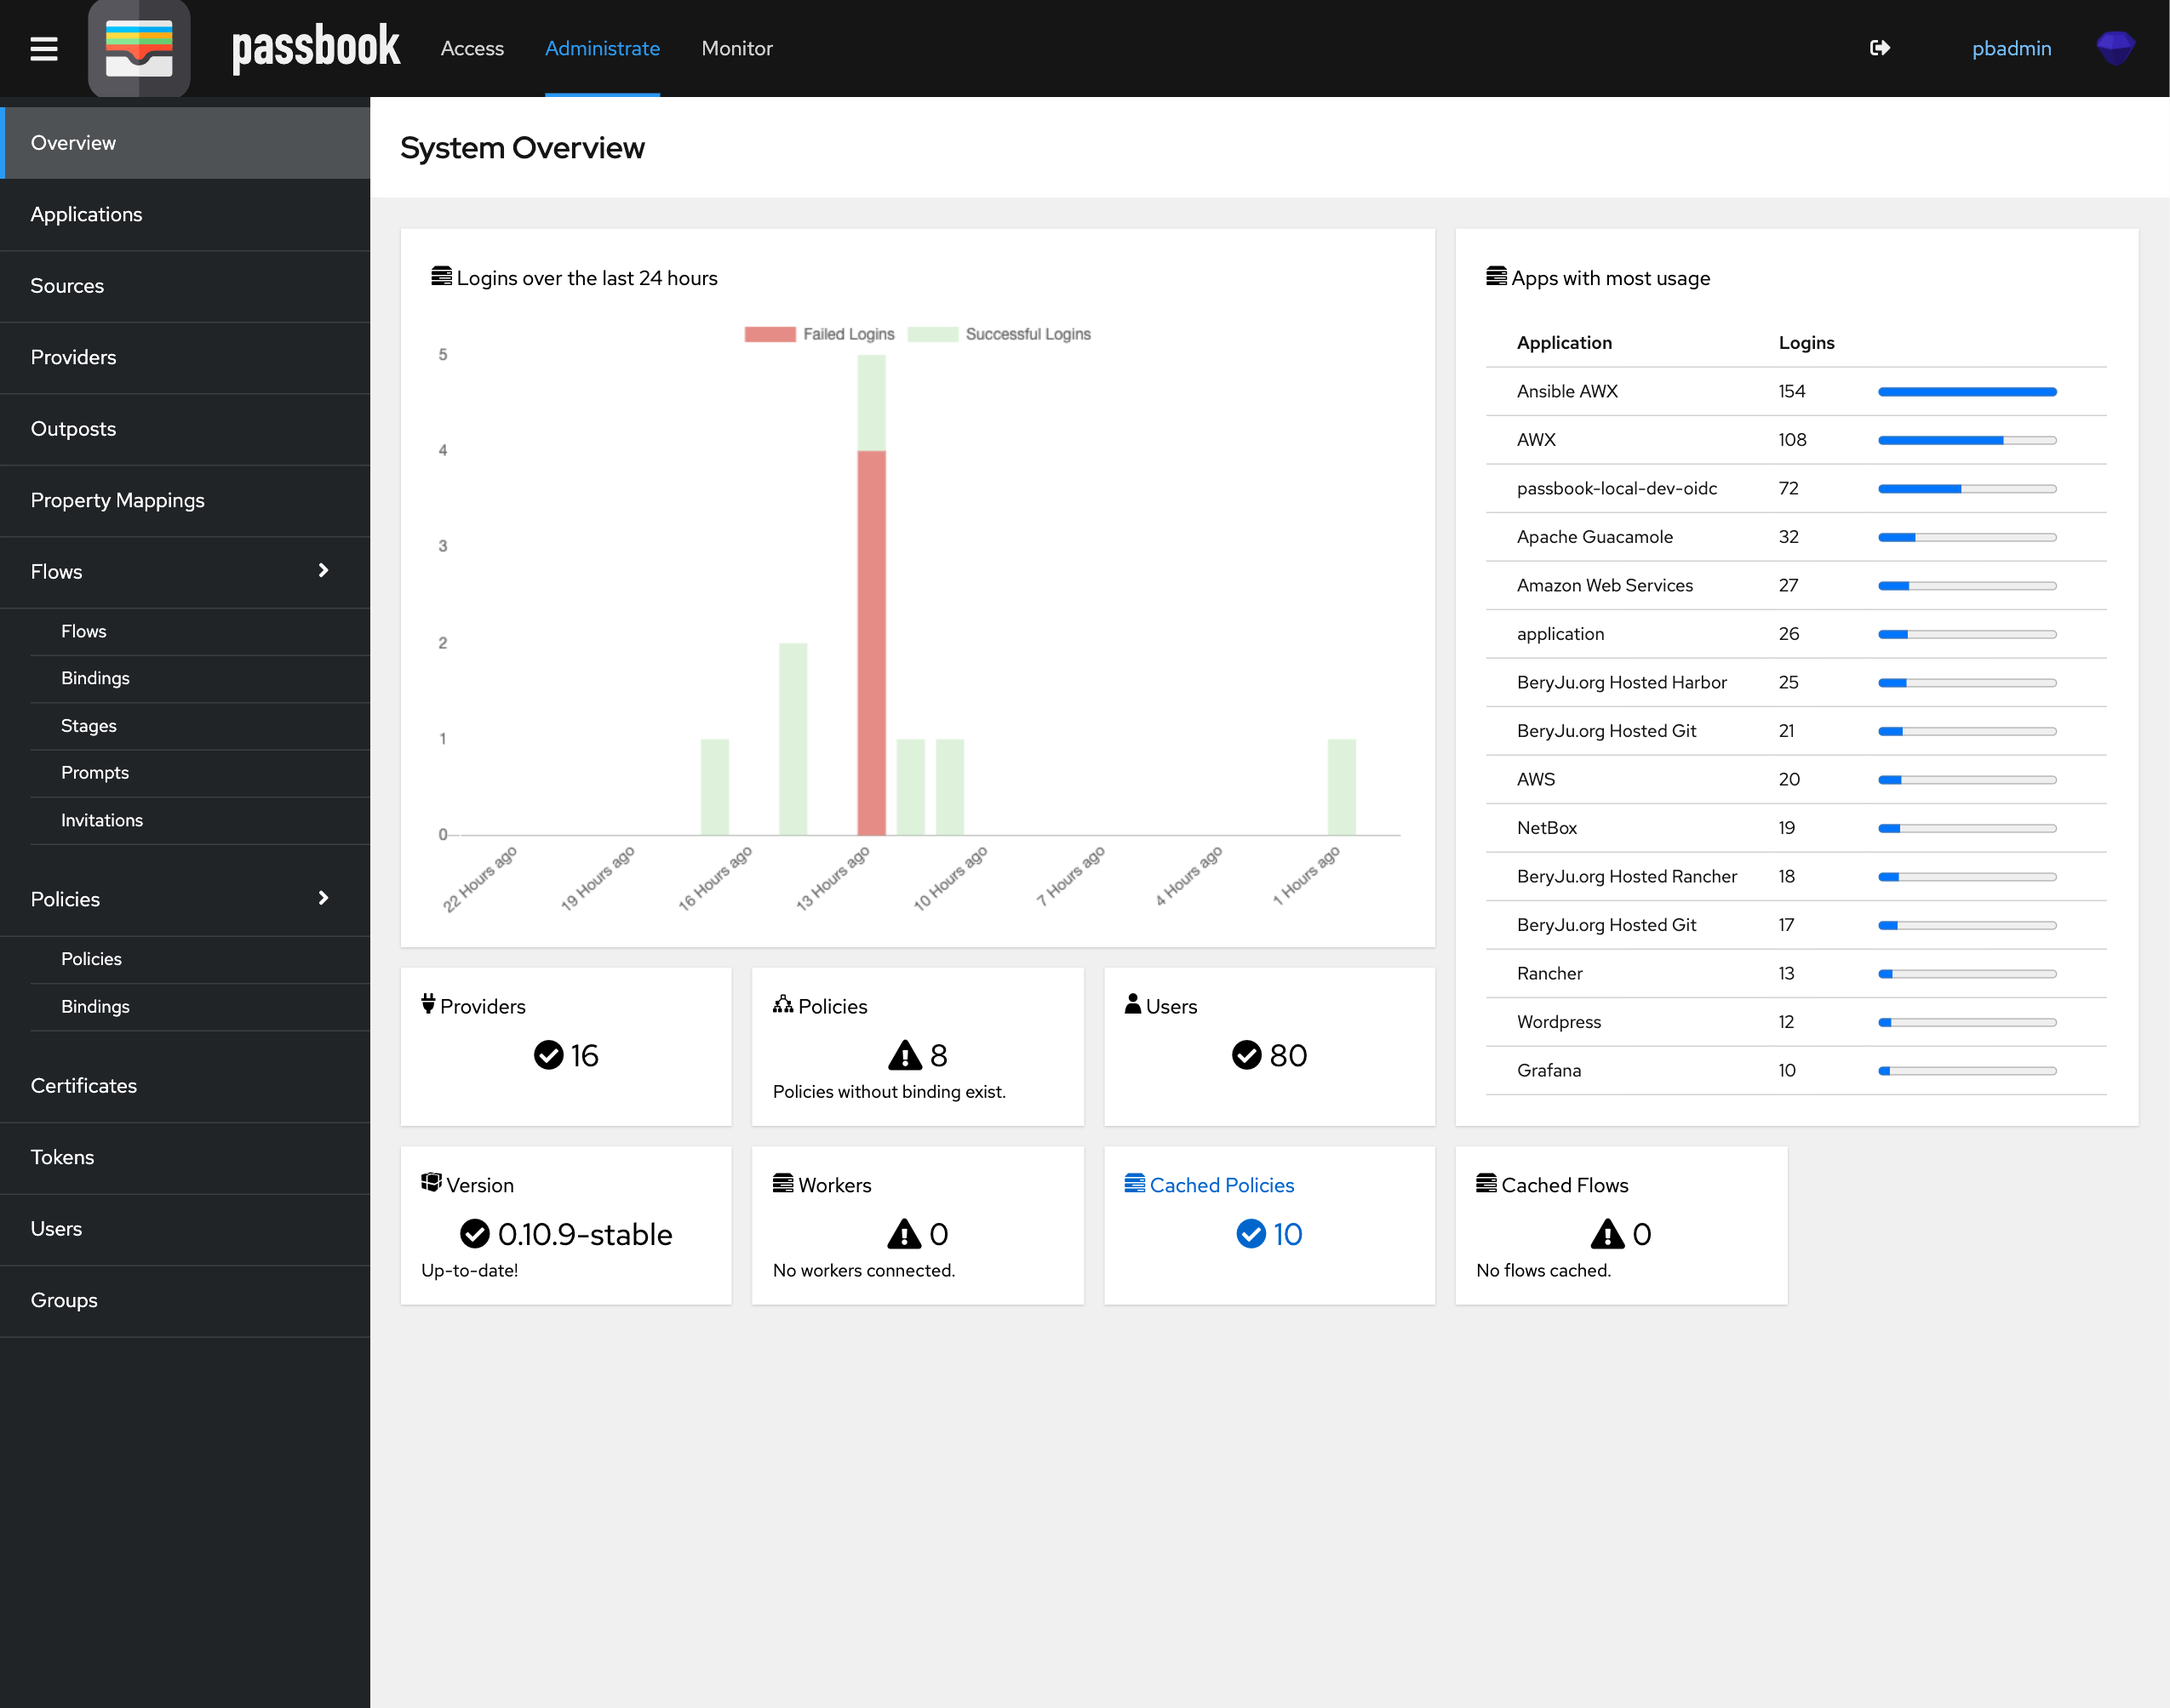
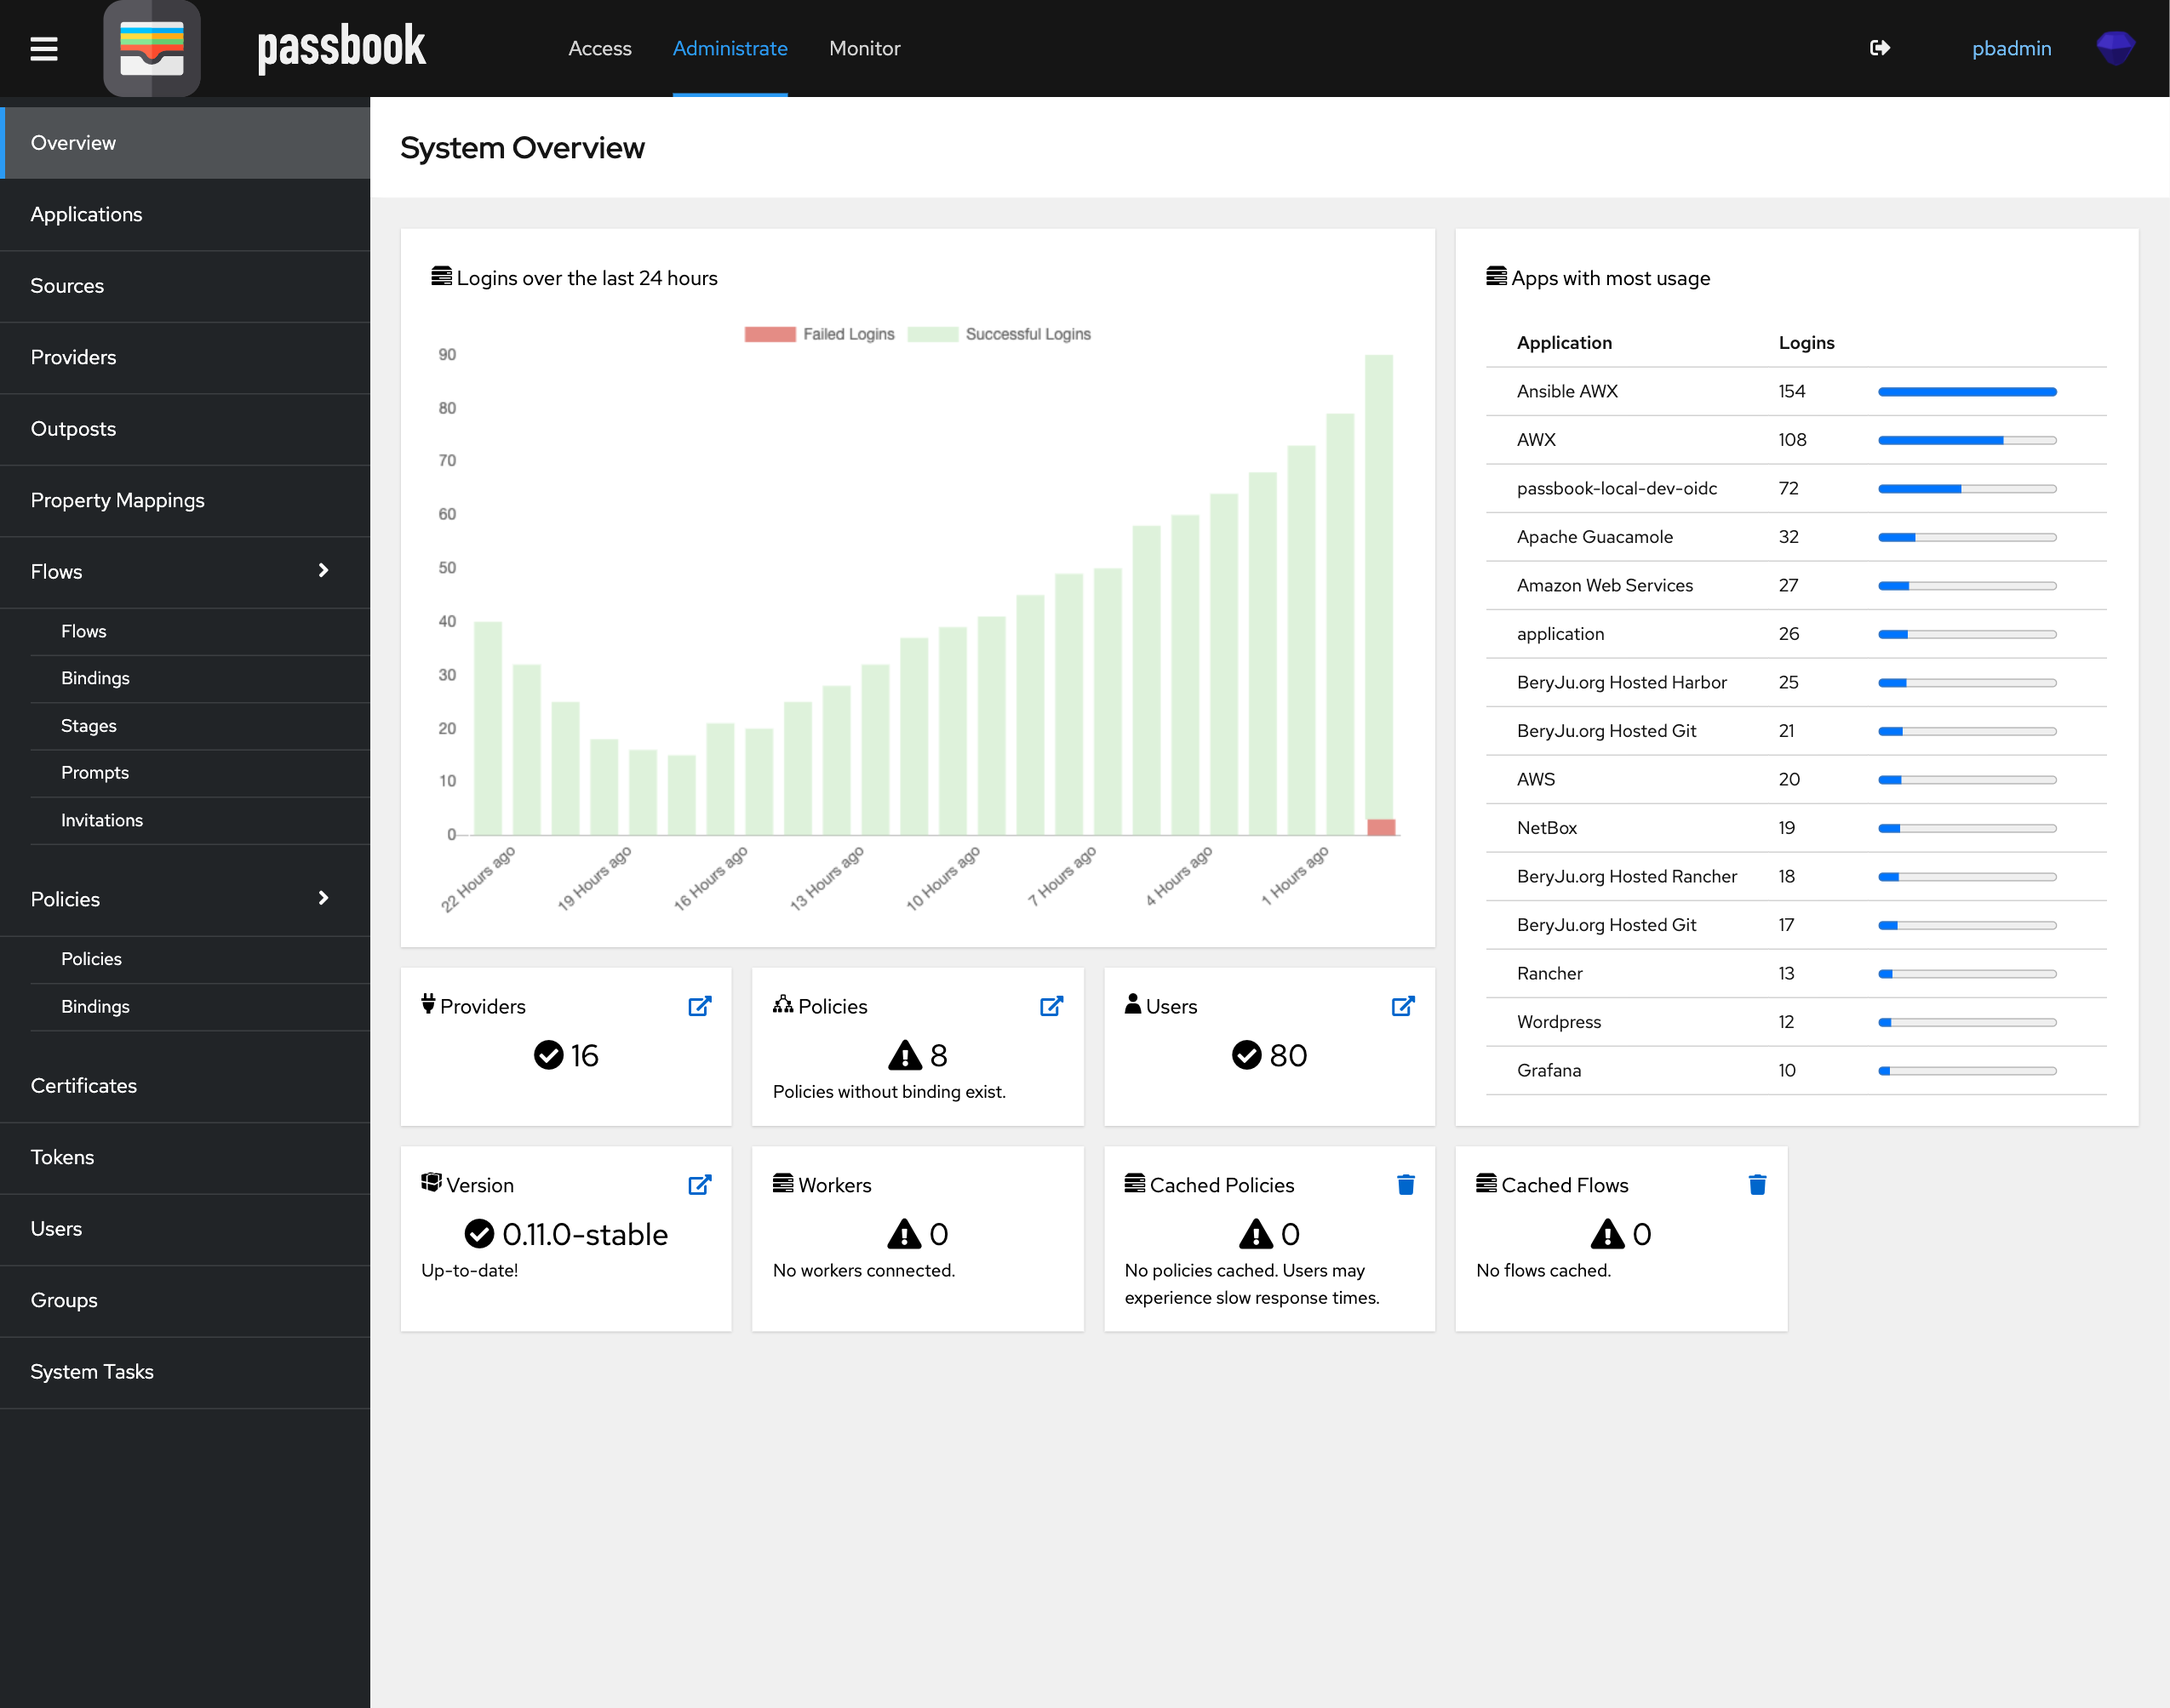
docs: update admin screenshot

diff --git a/passbook/admin/templates/administration/overview.html b/passbook/admin/templates/administration/overview.html
@@ -11,7 +11,7 @@
 </section>
 <section class="pf-c-page__main-section">
     <div class="pf-l-gallery pf-m-gutter">
-        <div class="pf-c-card pf-c-card-aggregate pf-l-gallery__item pf-m-4-col" style="grid-column-end: span 3;grid-row-end: span 5;">
+        <div class="pf-c-card pf-c-card-aggregate pf-l-gallery__item pf-m-4-col" style="grid-column-end: span 3;grid-row-end: span 2;">
             <div class="pf-c-card__header">
                 <div class="pf-c-card__header-main">
                     <i class="pf-icon pf-icon-server"></i> {% trans 'Logins over the last 24 hours' %}
@@ -323,9 +323,6 @@ fetch("{% url 'passbook_api:admin_metrics-list' %}").then(r => r.json()).then(r 
                     }
                 }],
                 yAxes: [{
-                    ticks: {
-                        stepSize: 1
-                    },
                     stacked: true,
                     gridLines: {
                         color: "rgba(0, 0, 0, 0)",
